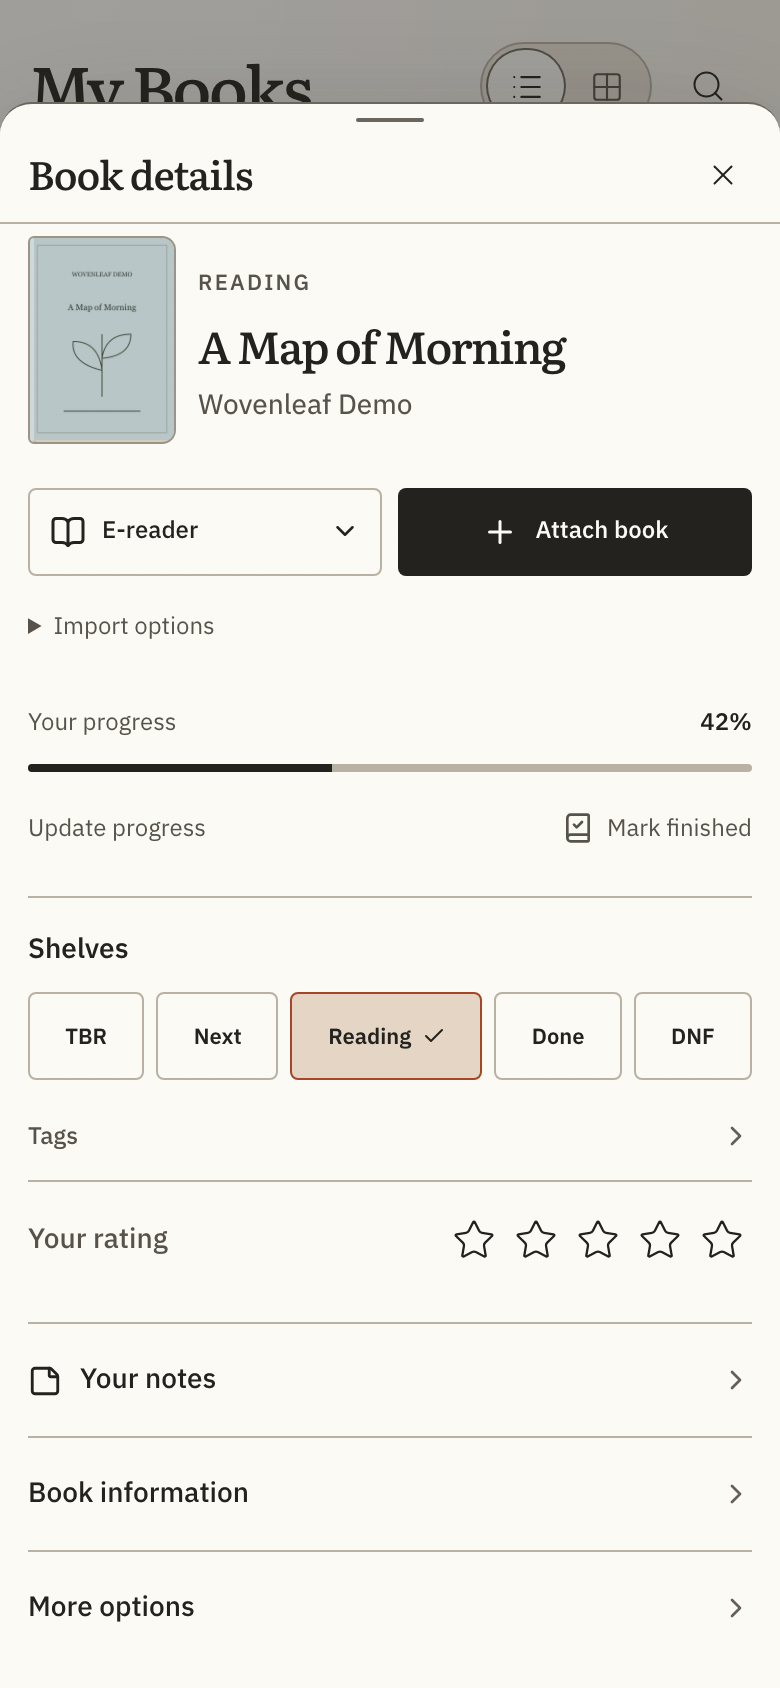
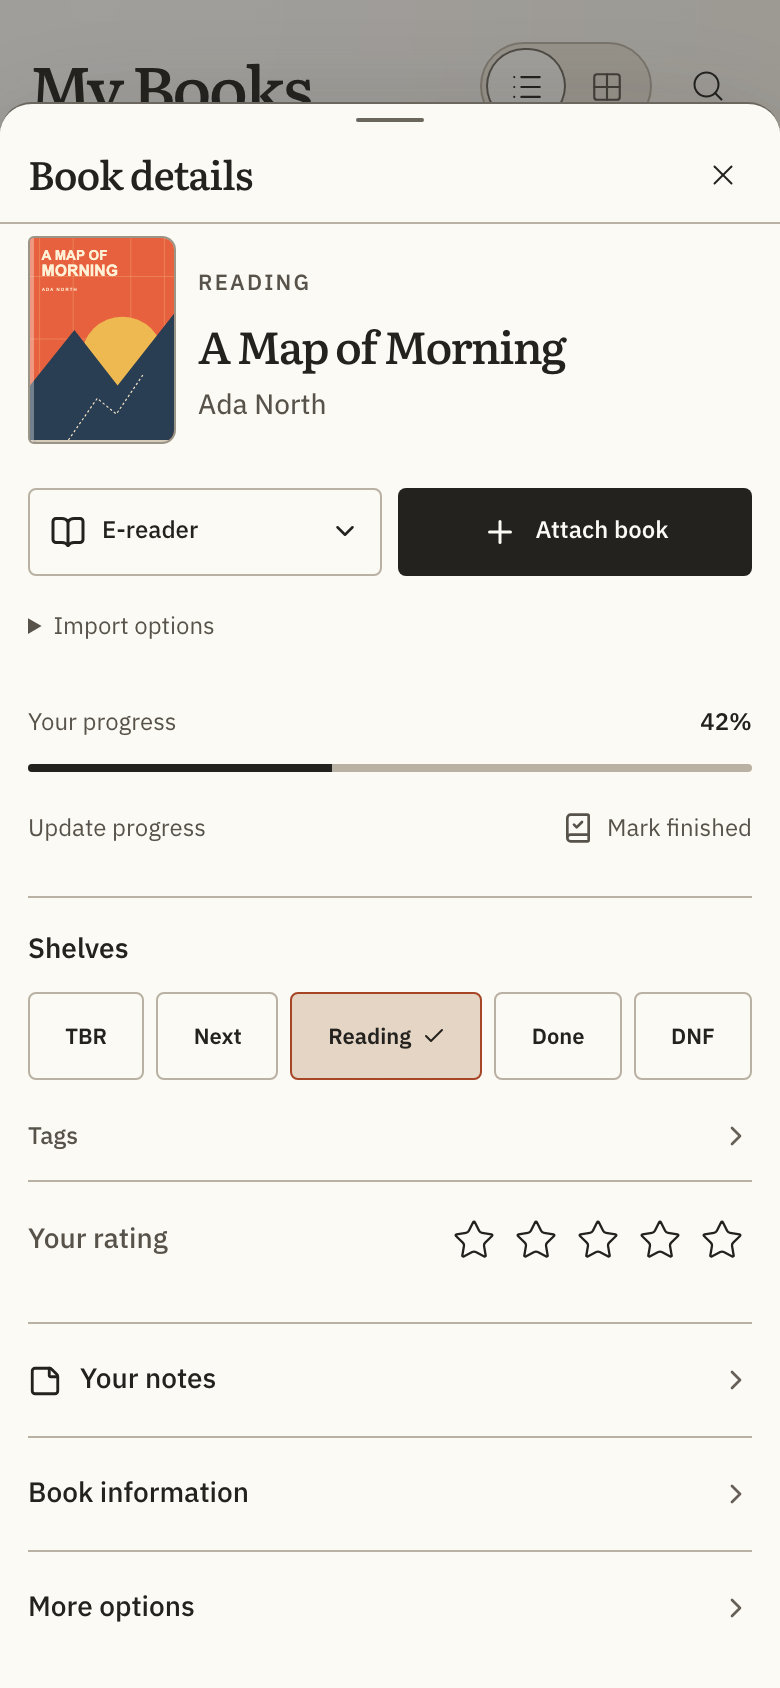
Refresh demo screenshots with original CC0 book covers

Changed region(s): [[0.0308, 0.1232, 0.5231, 0.2773]]

diff --git a/docs/screenshots/covers/README.md b/docs/screenshots/covers/README.md
@@ -1,0 +1,27 @@
+# Demo covers
+
+Six original covers for fictional books, made from geometric SVG artwork and
+system typography. No downloaded images, commercial covers, or reference artwork.
+
+The cover artwork and fictional catalog in this directory are dedicated to the
+public domain under [CC0 1.0](https://creativecommons.org/publicdomain/zero/1.0/).
+You may reuse or modify them without attribution. The app and screenshots retain
+their existing licenses.
+
+Regenerate from the repository root:
+
+```sh
+node scripts/generate-demo-covers.mjs
+```
+
+To retake the library, grid, and book-details screenshots, install the mobile
+app's dependencies, start `bun run dev -- --host 127.0.0.1 --port 4173` from
+`apps/mobile`, then run this from the repository root:
+
+```sh
+node scripts/capture-readme.mjs
+```
+
+The capture script uses an isolated Playwright browser with fictional data and
+never opens an existing browser profile or personal library. Refresh the asset
+hashes in `ASSET_LICENSES.json` after regenerating tracked assets.

diff --git a/README.md b/README.md
@@ -21,6 +21,8 @@ Free and open source. No account, subscriptions, or library limits.
 
 <p align="center"><sub>Reading · Reading appearance · Book details</sub></p>
 
+Demo library covers are original [CC0 artwork](docs/screenshots/covers/README.md).
+
 ## Features
 
 - **Your library:** reading shelves, custom collections, personal tags, ratings, notes, and local search.
@@ -134,5 +136,5 @@ especially when using browser storage.
 
 ## License
 
-[MIT](LICENSE) for original code and project-owned artwork. Third-party components
+[MIT](LICENSE) for original code and project-owned artwork, except the [CC0 demo covers](docs/screenshots/covers/README.md). Third-party components
 retain their [own licenses and notices](third_party/README.md).

diff --git a/branding/app-store/README.md b/branding/app-store/README.md
@@ -18,6 +18,8 @@ original demo passage is in `apps/mobile/scripts/preview-responsive-reader.ts`;
 these captures include no third-party book covers or text. Provenance and hashes
 are recorded in `ASSET_LICENSES.json`.
 
-The README's library, grid, details, and Libby screenshots use isolated browser
-demo data; its audiobook screen uses the development marketing preview. The draft
+The README's library, grid, and details screenshots use original CC0 artwork in
+`docs/screenshots/covers/`; `scripts/capture-readme.mjs` reproduces them. Libby
+screenshots use isolated browser demo data; the audiobook screen uses the
+development marketing preview. The draft
 store library screenshot was not added because it contains provider cover art.
